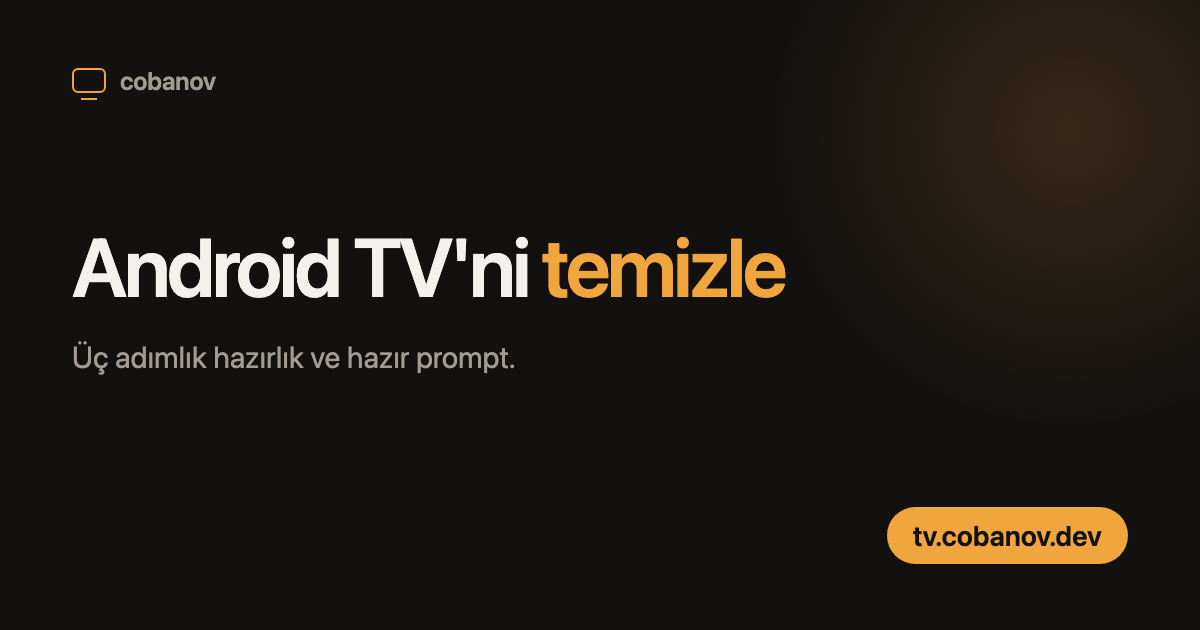
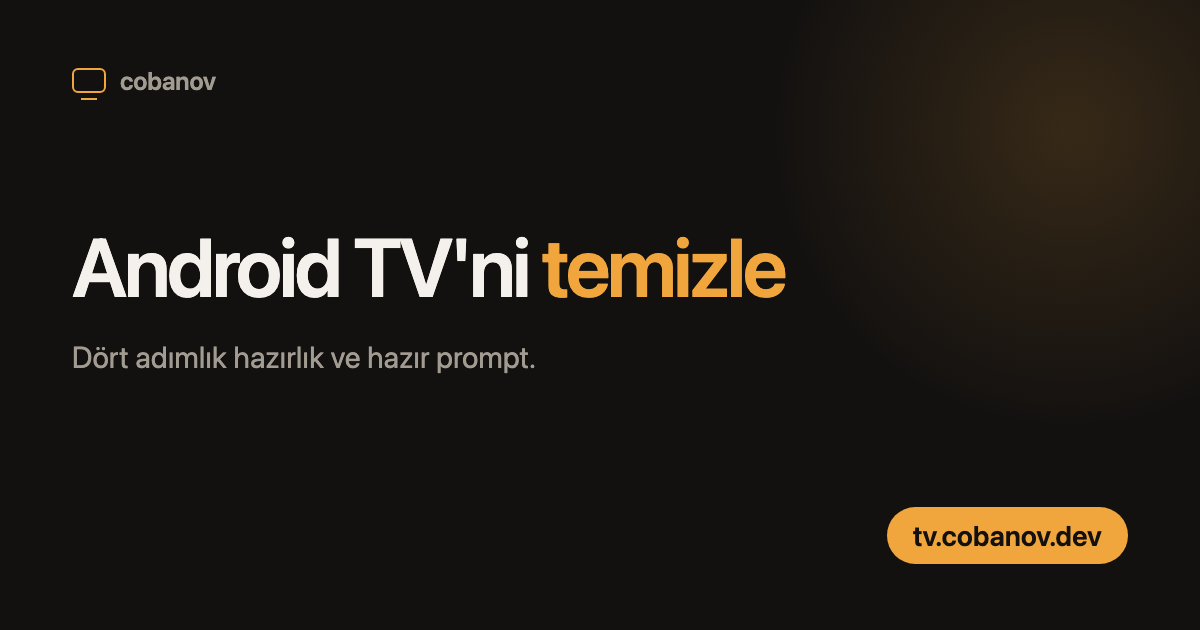
Adımları dörde çıkar, sayfayı platformdan bağımsız hale getir
IP öğrenme kendi adımı oldu ve aynı ağda olma şartı oraya yazıldı; son adım
'Claude Code ya da Codex'i aç, prompt'u yapıştır' olarak netleşti. Sayfada
Mac'e özgü komut kalmadı: geri alma bölümündeki bash döngüsü yerine ajana
'hepsini geri aç' demek yeterli, tek paket için tek adb komutu duruyor.
Prompt'ta adb kurulumu Windows'tan başlayarak üç işletim sistemi için
yazıldı, ev dizini varsayan yollar temizlendi.

Changed region(s): [[0.0617, 0.5429, 0.4317, 0.6032]]

diff --git a/index.template.html b/index.template.html
@@ -68,9 +68,10 @@
       <div class="shell hero">
         <h1>Android TV'ni temizle</h1>
         <p class="hero-lede">
-          Televizyonun kasıyorsa, kullanmadığın fabrika uygulamalarını ADB ile
-          kapatabilirsin. Aşağıda üç adımlık hazırlık ve yapay zekâ ajanına
+          Televizyonun kasıyorsa, kullanmadığın fabrika uygulamalarını
+          kapatabilirsin. Aşağıda dört adımlık hazırlık ve yapay zekâ ajanına
           vereceğin prompt var. Hiçbir şey silinmez, her adım geri alınabilir.
+          Windows, Mac ya da Linux fark etmez.
         </p>
       </div>
 
@@ -88,22 +89,32 @@
             </li>
 
             <li class="step">
-              <h3>Hata ayıklamayı aç, IP'yi not et</h3>
+              <h3>Hata ayıklamayı aç</h3>
               <p>
-                <strong>Ayarlar → Sistem → Geliştirici seçenekleri → USB hata ayıklama.</strong>
-                IP adresi: <strong>Ayarlar → Ağ ve internet → Durum.</strong>
-                Bilgisayarınla televizyon aynı ağda olmalı.
+                <strong>Ayarlar → Sistem → Geliştirici seçenekleri → USB hata
+                ayıklama.</strong> Ayrı bir "Kablosuz hata ayıklama" seçeneği
+                varsa onu da aç.
               </p>
             </li>
 
             <li class="step">
-              <h3>Prompt'u yapıştır</h3>
+              <h3>Televizyonun IP adresini öğren</h3>
+              <p>
+                <strong>Ayarlar → Ağ ve internet → Durum.</strong>
+                <code>192.168.</code> ile başlayan sayıyı not et. Bilgisayarın
+                da televizyonla <strong>aynı ağda</strong> olmalı — ikisi de
+                aynı Wi-Fi ya da aynı modem.
+              </p>
+            </li>
+
+            <li class="step">
+              <h3>Claude Code ya da Codex'i aç, prompt'u yapıştır</h3>
               <p>
                 Aşağıdaki metni kopyala, ilk iki satırdaki
-                <code>BURAYA YAZ</code> yerlerini doldur, Claude Code veya
-                Codex'e ver. <code>adb</code> kurulumunu, bağlantıyı ve
-                temizliği o yapar; sana ara ara "şunu onayla, şunu test et"
-                diyecek.
+                <code>BURAYA YAZ</code> yerlerine televizyonunun modelini ve
+                IP adresini yaz, ajana ver. Gerisini o yapıyor: gereken aracı
+                kuruyor, televizyona bağlanıyor, temizliyor. Sana ara ara
+                "şunu onayla, şunu test et" diyecek.
               </p>
             </li>
           </ol>
@@ -156,24 +167,27 @@
 
       <section id="geri-alma">
         <div class="shell">
-          <div class="section-head">
-            <h2>Geri alma</h2>
-            <p>Hiçbir şey silinmediği için her adım geri alınabilir.</p>
+          <div class="section-head"><h2>Geri alma</h2></div>
+          <div class="prose">
+            <p>
+              Hiçbir şey silinmediği için her adım geri alınabilir. Ajan
+              kapattığı paketlerin listesini tuttuğu için ona
+              <strong>"kapattığın her şeyi geri aç"</strong> demen yeterli.
+            </p>
+            <p>
+              Sadece tek bir uygulamayı geri açmak istersen:
+            </p>
           </div>
-          <div class="code">
+          <div class="code" style="margin-top: 14px; max-width: 66ch">
             <div class="code-bar">
               <span class="code-label">terminal</span>
               <button class="copy" type="button" data-copy>Kopyala</button>
             </div>
-            <pre><code># tek paket
-adb shell pm enable com.tcl.suspension
-
-# hepsi (ajanın tuttuğu listeden)
-cd ~/tv-debloat
-for p in $(cat kapatilanlar.txt); do adb shell pm enable $p; done</code></pre>
+            <pre><code>adb shell pm enable com.tcl.suspension</code></pre>
           </div>
         </div>
       </section>
+
     </main>
 
     <footer>

diff --git a/assets/og.html b/assets/og.html
@@ -31,7 +31,7 @@
   <div class="top"><span class="mark"></span><span>cobanov</span></div>
   <div>
     <h1>Android TV'ni <em>temizle</em></h1>
-    <p>Üç adımlık hazırlık ve hazır prompt.</p>
+    <p>Dört adımlık hazırlık ve hazır prompt.</p>
   </div>
   <div class="bottom">
     <div></div>
